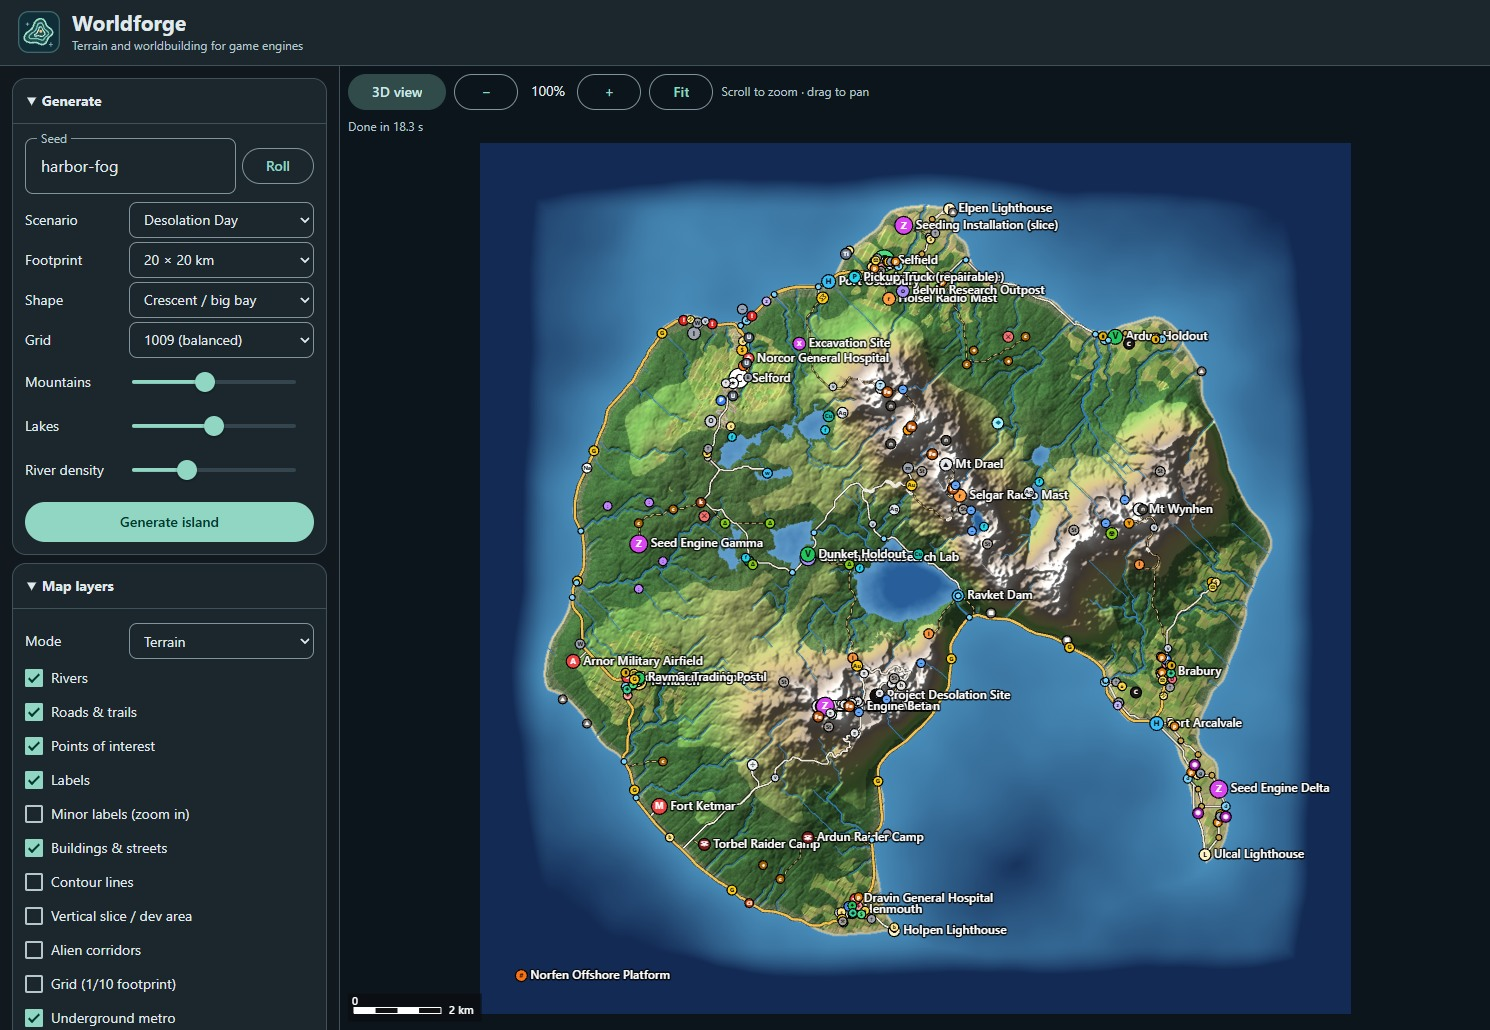
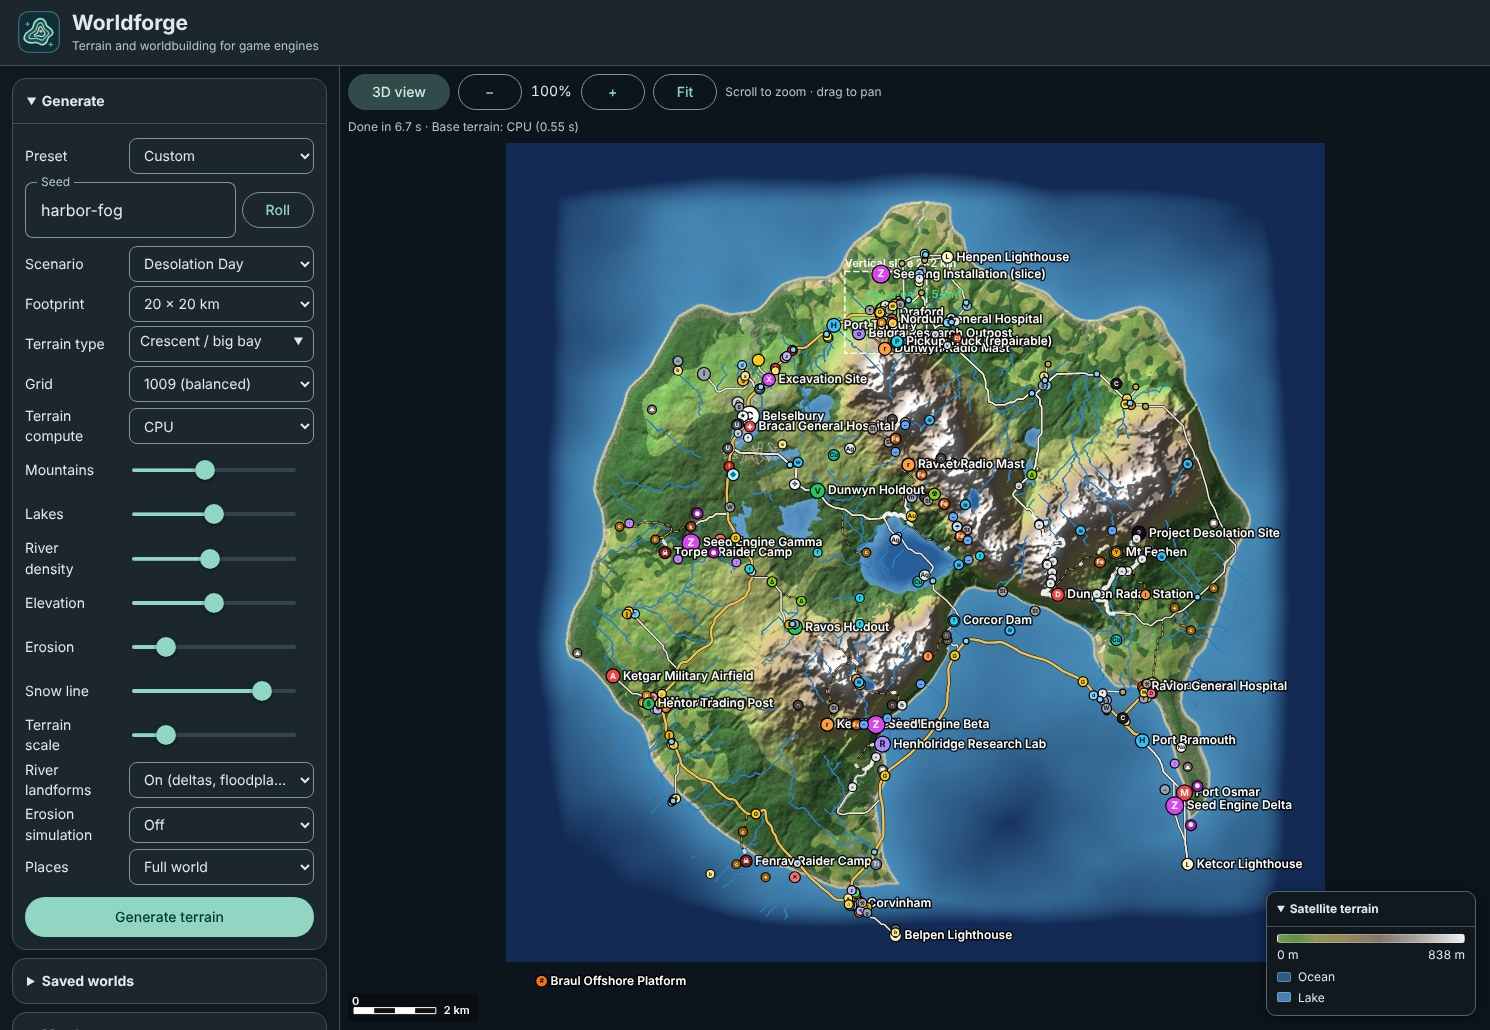
Updated screenshots

diff --git a/README.md b/README.md
@@ -1,4 +1,4 @@
-# Worldforge
+# [WIP] Worldforge
 
 [![Buy Me A Coffee](https://img.shields.io/badge/Buy%20Me%20A%20Coffee-Donate-brightgreen?logo=buymeacoffee)](https://www.buymeacoffee.com/armysarge)
 [![JavaScript](https://img.shields.io/badge/JavaScript-Browser-f7df1e?logo=javascript&logoColor=white)](https://developer.mozilla.org/en-US/docs/Web/JavaScript)
@@ -25,9 +25,9 @@ The four views show the same generated 20 km world from the **Desolation Day** s
 
 ## Quick start
 
-1. Open [index.html](index.html) in a modern desktop browser. The 2D generator runs locally with no build step. The 3D preview loads Three.js from a CDN.
-2. Pick a scenario, seed, footprint, terrain type and generation grid. Use **505** for fast iteration, **1009** for a balanced grid, **2017** for finer generation, or **4033** for the most detailed simulation.
-3. Click **Generate terrain**. The collapsible legend on the map follows the selected layer. Hover over controls for a description. When a metro network exists, **Underground metro** shows its cyan dashed alignments in 2D and 3D.
+1. Open [index.html](index.html) in a modern desktop browser. The 2D generator runs locally with no build step. The 3D view loads three.js from a CDN the first time it is opened.
+2. Pick a **Preset** for a one-click starting point (farmland island, alpine island, wild archipelago, rolling countryside, mountain valleys, dry plateaus or cliff coast), or set things yourself: pick a scenario, seed, footprint, terrain type and generation grid. Use **505** for fast iteration, **1009** for a balanced grid, **2017** for finer generation, or **4033** for the most detailed simulation.
+3. Click **Generate terrain**. Two bars under the toolbar show progress: **Overall** for the whole job and **Step** for the stage or file in hand. They also run during exports. The collapsible legend on the map follows the selected layer. Hover over controls for a description. When a metro network exists, **Underground metro** shows its cyan dashed alignments in 2D and 3D.
 4. Pick an **Export size**, then use the export button for your engine. The generation grid drives the world simulation. A larger export adds terrain detail and resamples the existing world.
 
 | Scenario | Generated world |
@@ -35,7 +35,20 @@ The four views show the same generated 20 km world from the **Desolation Day** s
 | **Sandbox** | The default. Terrain, settlements, infrastructure, resources, starting region and progression zones for a general game project. |
 | **Desolation Day** | Adds seeding installations, infestation, story sites and survivor factions from the original project. |
 
-Keep the seed, scenario and settings together when reproducing a map. Save the exported files for worlds you intend to keep across generator updates.
+**Places** sets how much of the world is settled.
+
+| Places | Result |
+| --- | --- |
+| Full world | Towns, roads, farms, facilities and resources. The default. |
+| Few places | About a third of the usual sites. |
+| Random mix (per seed) | Each kind of place gets its own share from the seed; some kinds are left out entirely. |
+| None (terrain only) | Terrain, rivers and lakes with only natural landmarks such as peaks and waterfalls. No roads, buildings or farmland. |
+
+To tone the water down, **River density** at its lowest keeps only the main rivers, and **Lakes** at 0 removes every lake, natural hollows included. **Erosion** at 0 leaves slopes without gullies.
+
+Hover over the 2D map for the position, height, slope and biome under the pointer, plus the highway, gravel road or dirt track running through it and the nearest place.
+
+Keep the seed, scenario and settings together when reproducing a map. Terrain shaping changed in this version (rivers, gullies, farmland, road beds), so a seed from an older version gives a different map. Save the exported files for worlds you intend to keep across generator updates.
 
 ## Mainland terrain
 
@@ -50,6 +63,33 @@ Choose a preset under **Terrain type → Mainland**. The terrain extends to the 
 
 **Erosion simulation** (Light or Strong) lets rivers cut into the base terrain and over-steep valley walls slump before lakes and rivers are laid out, giving branching valley networks and sharper ridges. It drains some natural hollows, so maps have fewer natural lakes. Off, the default, keeps existing maps unchanged. Grids above 505 are eroded at 505 and the change is interpolated back. **Elevation** scales vertical relief. **Erosion** controls how deeply catchment lines erode before river beds are carved. **Snow line** changes where snow appears in the biome and material layers. **Terrain scale** controls the size of terrain features. Higher values produce more closely spaced detail. The same seed and terrain controls work with **Satellite terrain**, **Topographic terrain**, and **Grayscale height** previews. Use the R16 or RAW export for full-precision engine height data. [Texturize Terrain Generator](https://texturize.app/generators/terrain)
 
+## Drawing ridges, rivers and roads
+
+Open **Draw ridges, rivers and roads**, pick a **Line type**, press **Draw new line** and click points on the 2D map. Double-click or press Enter to finish, Esc to cancel, Backspace to remove the last point. Press **Apply and regenerate** and the world is rebuilt around the lines: drainage, biomes, towns and the generated road network all respond to them.
+
+| Line type | Effect | Width | Strength |
+| --- | --- | --- | --- |
+| Ridge | Raises a crest along the line that rises and dips and tapers out at both ends. | Width of the ridge | Height: about 25 m per step on a 10 km map, 100 m per step on a 100 km map |
+| Valley | Lowers a trough. Land is never pushed below sea level. | Width of the valley | Depth, same scale as ridges |
+| River course | Cuts a steadily falling valley from the higher end of the line to the lower and feeds it water, so a river runs the whole length. From the end of the line the water finds its own way downhill. | Width of the valley | 1 to 3 stream, 4 to 7 river, 8 to 10 major river |
+| Road | Routed through the drawn points with the normal road rules (grades, bridges, tunnels) and built before the generated network, which then joins it. | Not used | 1 to 3 dirt track, 4 to 7 gravel road, 8 to 10 highway |
+
+To change a line, click it and drag its points; the Width and Strength sliders then edit the selected line. **Undo point**, **Delete selected** and **Clear all** do what they say. Lines are stored as part of the world's settings, as fractions of the map, so saved worlds and share links keep them and they survive a change of footprint or grid.
+
+A road follows the sketch where the ground allows. Across ground too steep for its class it goes round, and the panel says how far. Changing the terrain with a ridge or river also changes where towns and other sites are placed, because placement scores the new ground.
+
+## 3D view
+
+**3D view** draws the terrain with three.js on WebGPU, falling back to WebGL 2 where WebGPU is unavailable; the status line names the one in use. The mesh comes from the same pipeline as the heightmap exports (upsampled grid, added relief, river channels cut at mesh resolution, graded roads and building pads), so it shows what an engine will receive. **Mesh** sets the samples per side: 513, 1025 or 2049. Lighting comes from the mesh, so the map colours are drawn without their baked hillshade. Add `?webgl` to the page address to skip WebGPU if a graphics driver misbehaves.
+
+## Terrain shaping
+
+- **Rivers** have a flat bed as wide as the river, banks no steeper than about 1 in 5, and a depth that stays well below the width. Beds fall steadily instead of in cell-sized steps, and exports cut the channel again at export resolution from the river line, so banks come out smooth at any size.
+- **Farmland** barely changes the ground: fields lose 30% of their small bumps and keep every slope. Parcels on the map are drawn in blocks with their own heading, strip width and uneven lengths.
+- **Building pads** sit at the average ground level under the footprint and meet the ground over an apron no steeper than about 1 in 3. Neighbouring pads blend into each other.
+- **Roads** are bedded along their smoothed centreline with a shoulder, and only gullies carrying a real stream stay open under a road.
+- **Added relief** at export size fades out towards roads, streets, buildings and river channels, and is much lighter on farmland and beaches.
+
 ## River landforms
 
 **River landforms** (on by default) shapes the land along rivers:
@@ -61,7 +101,9 @@ Turn it **Off** to reproduce terrain made before this setting. **Waterfalls** ar
 
 ## Terrain compute
 
-**Auto** uses WebGPU for the base height field and small-scale terrain relief when the browser exposes a hardware adapter. The generator falls back to CPU when WebGPU is unavailable or the compute pass fails. The status line reports the backend and time spent on the base terrain pass. Drainage, rivers, roads, settlements and engine exports still run on the CPU.
+**Auto** uses WebGPU for the base height field, small-scale terrain relief and screening potential tunnels and viaducts. The CPU still validates each remaining structure candidate and chooses the route. The generator falls back to CPU when WebGPU is unavailable or a compute pass fails. **World statistics** shows both compute backends.
+
+Heightmap exports, tiles and the 3D mesh also run their per-sample work on WebGPU when compute is **Auto**: the upsample of the grid and the added relief. The export status line says which backend did it, and the result matches the CPU version to under a millimetre. The CPU handles drainage and rivers, road search and grading, settlements, resources, river cutting and dip filling at export size, because each of those steps depends on the result of the one before it. Generation is also about a fifth faster on a 1009 grid and a quarter faster on 2017 than the previous version from reworked site placement, road search bookkeeping and resource packing. The background worker handles generation when Worldforge is served over HTTP or HTTPS. The browser console reports time per generation stage.
 
 **4033** generates roughly 16.3 million samples. On a 16 km footprint, samples are about 3.97 m apart. This grid needs substantially more system memory and time, even when WebGPU is active. **8129** is an export size.
 
@@ -87,10 +129,27 @@ With a **4033** generation grid, select **Same as grid** to export native **4033
 
 ### Unreal Engine
 
-1. Export the package and open its world JSON. Read the dimensions, scale and component settings under `unreal`.
-2. In Landscape mode, import the R16 using those settings. Apply the exported location so sea level lands at Z = 0. For example, a 4033 landscape uses 63 quads per section, 2 × 2 sections per component, and 32 × 32 components.
+1. Export the package. The import values are at the top of the generated `.py` file and under `unreal` in the world JSON (`importSteps` lists them in order).
+2. In Landscape mode choose **Manage → New → Import from File** and pick the R16. Enter the exported **Location**, **Scale**, section size and component counts, with **Flip Y Axis** off. For example, a 4033 landscape uses 63 quads per section, 2 × 2 sections per component, and 32 × 32 components.
+
+   The Location is the **centre** of the map, because that panel places a landscape by its centre: a 10 km map uses `500000, 500000`. The Landscape actor then sits at `0, 0` (`actorLocation`), which is the north-west corner every exported coordinate is measured from, and sea level is Z = 0.
+
+   **Open World levels on Unreal 5.7 and 5.8:** importing a heightmap straight into a World Partition level is broken in the engine. One piece of the terrain repeats with flat ground between. Import into a **Basic** level, save it, then use **Tools → Convert Level**. Unreal 5.5 and 5.6 import directly.
 3. Create matching Landscape material layers and Layer Info assets, then import the weightmaps at the same dimensions as the heightmap. Use the PCG masks separately for placement or exclusion.
-4. To create markers and splines, enable the Python Editor Script Plugin and run the generated Python in your terrain level. Review the script header and set `SPLINE_BP` to your road Blueprint path. River setup uses the Water plugin when available. The script supplies layout data and markers for you to develop into game assets.
+4. To create markers and splines, enable the Python Editor Script Plugin, open the level with the landscape and choose **Tools → Execute Python Script**. The header of the generated file lists the steps, and a `RUN` block switches each part on or off. A summary window reports what was created and what was skipped, with the reason.
+
+   | Part | Creates |
+   | --- | --- |
+   | Landscape check | Confirms the landscape position and scale. It moves the landscape only in a plain level with a single landscape, never in a World Partition level. |
+   | Place markers | One Target Point per place, tagged with id, type, region, zone, danger and loot. |
+   | PCG volumes | A volume over each settlement and over the terrain. |
+   | Roads, streets, metro | Highways, gravel roads and dirt tracks; settlement streets; metro lines. Three separate switches. |
+   | Rivers | Plain splines, or Water plugin rivers when `USE_WATER_PLUGIN` is on. |
+   | Area outlines | Closed splines around the coast, lake shores, forest, farmland, wetland, beach, highland and snow, for PCG, landscape layers or biome tools. |
+
+   Splines use the Blueprint at `SPLINE_BP`, an Actor with one Spline component. Make it once: **Add → Blueprint Class → Actor**, name it `BP_WorldforgeSpline` in `/Game/Worldforge`, add a Spline component, compile and save. Without it the spline parts are skipped and the summary says so. The same outlines are in the world JSON under `areas`.
+
+   Rivers are plain splines by default. `USE_WATER_PLUGIN = True` makes the largest ones (`MAX_WATER_RIVERS`) real Water plugin rivers; every water body re-renders the landscape water brush and holds GPU memory, so turn it on only after the rest is in and saved. For a lighter first run, set `streets` and `area outlines` to `False` in `RUN`.
 
 [Epic's Landscape Technical Guide](https://dev.epicgames.com/documentation/unreal-engine/landscape-technical-guide-in-unreal-engine) · [Custom heightmaps and layers](https://dev.epicgames.com/documentation/unreal-engine/creating-and-using-custom-heightmaps-and-layers-in-unreal-engine)
 
@@ -124,7 +183,7 @@ For a custom Godot terrain, decode the unsigned little-endian 16-bit samples wit
 | **Vectors .geojson** | Roads (with elevation profile), bridges, viaducts, tunnels and overpasses as separate lines, rivers (bed elevation and width per vertex), streets, lakes and POIs. Coordinates are metres from the north-west corner, not geographic. |
 | **Mesh .glb / .obj** | The terrain as a triangle mesh with normals, at the selected **Mesh size**. x east, y up, z south, in metres. |
 | **Normal map .png** | World-space normal map at the export size. Green points north (OpenGL convention); flip green for Unreal. |
-| **PCG masks** | Now also includes **Scree**, loose rock on the slopes below cliffs. |
+| **PCG masks** | Now also includes **Scree**, loose rock on the slopes below cliffs, and four data maps: **Data_Slope** (white is 60° or steeper), **Data_Flow** (how much water drains through, log scale), **Data_Curvature** (grey is flat, lighter is ridges, darker is hollows) and **Data_Aspect** (north-facing black, south-facing white). |
 
 ## Saved worlds and links
 
@@ -170,8 +229,9 @@ Open `index.html` directly from the project folder. Keep the stylesheet, `js/` a
 | --- | --- |
 | `index.html` | Page structure and controls |
 | `styles.css` | Layout, theme and control styling |
-| `js/terrain.js` | World generation, WebGPU terrain, height sampling and grading |
-| `js/map.js` | 2D and 3D rendering, overlays, legends and map information |
+| `js/terrain.js` | World generation and CPU routing |
+| `js/baseterrain.js`, `js/roadcompute.js` and `js/exportcompute.js` | WebGPU base terrain, road structure screening and export-size relief |
+| `js/map.js` | 2D rendering, the three.js 3D view, overlays, legends and map information |
 | `js/exports.js` | Heightmaps, engine data, terrain tiles and import helpers |
 | `js/app.js` | Startup, control events, navigation and POI editing |
 
